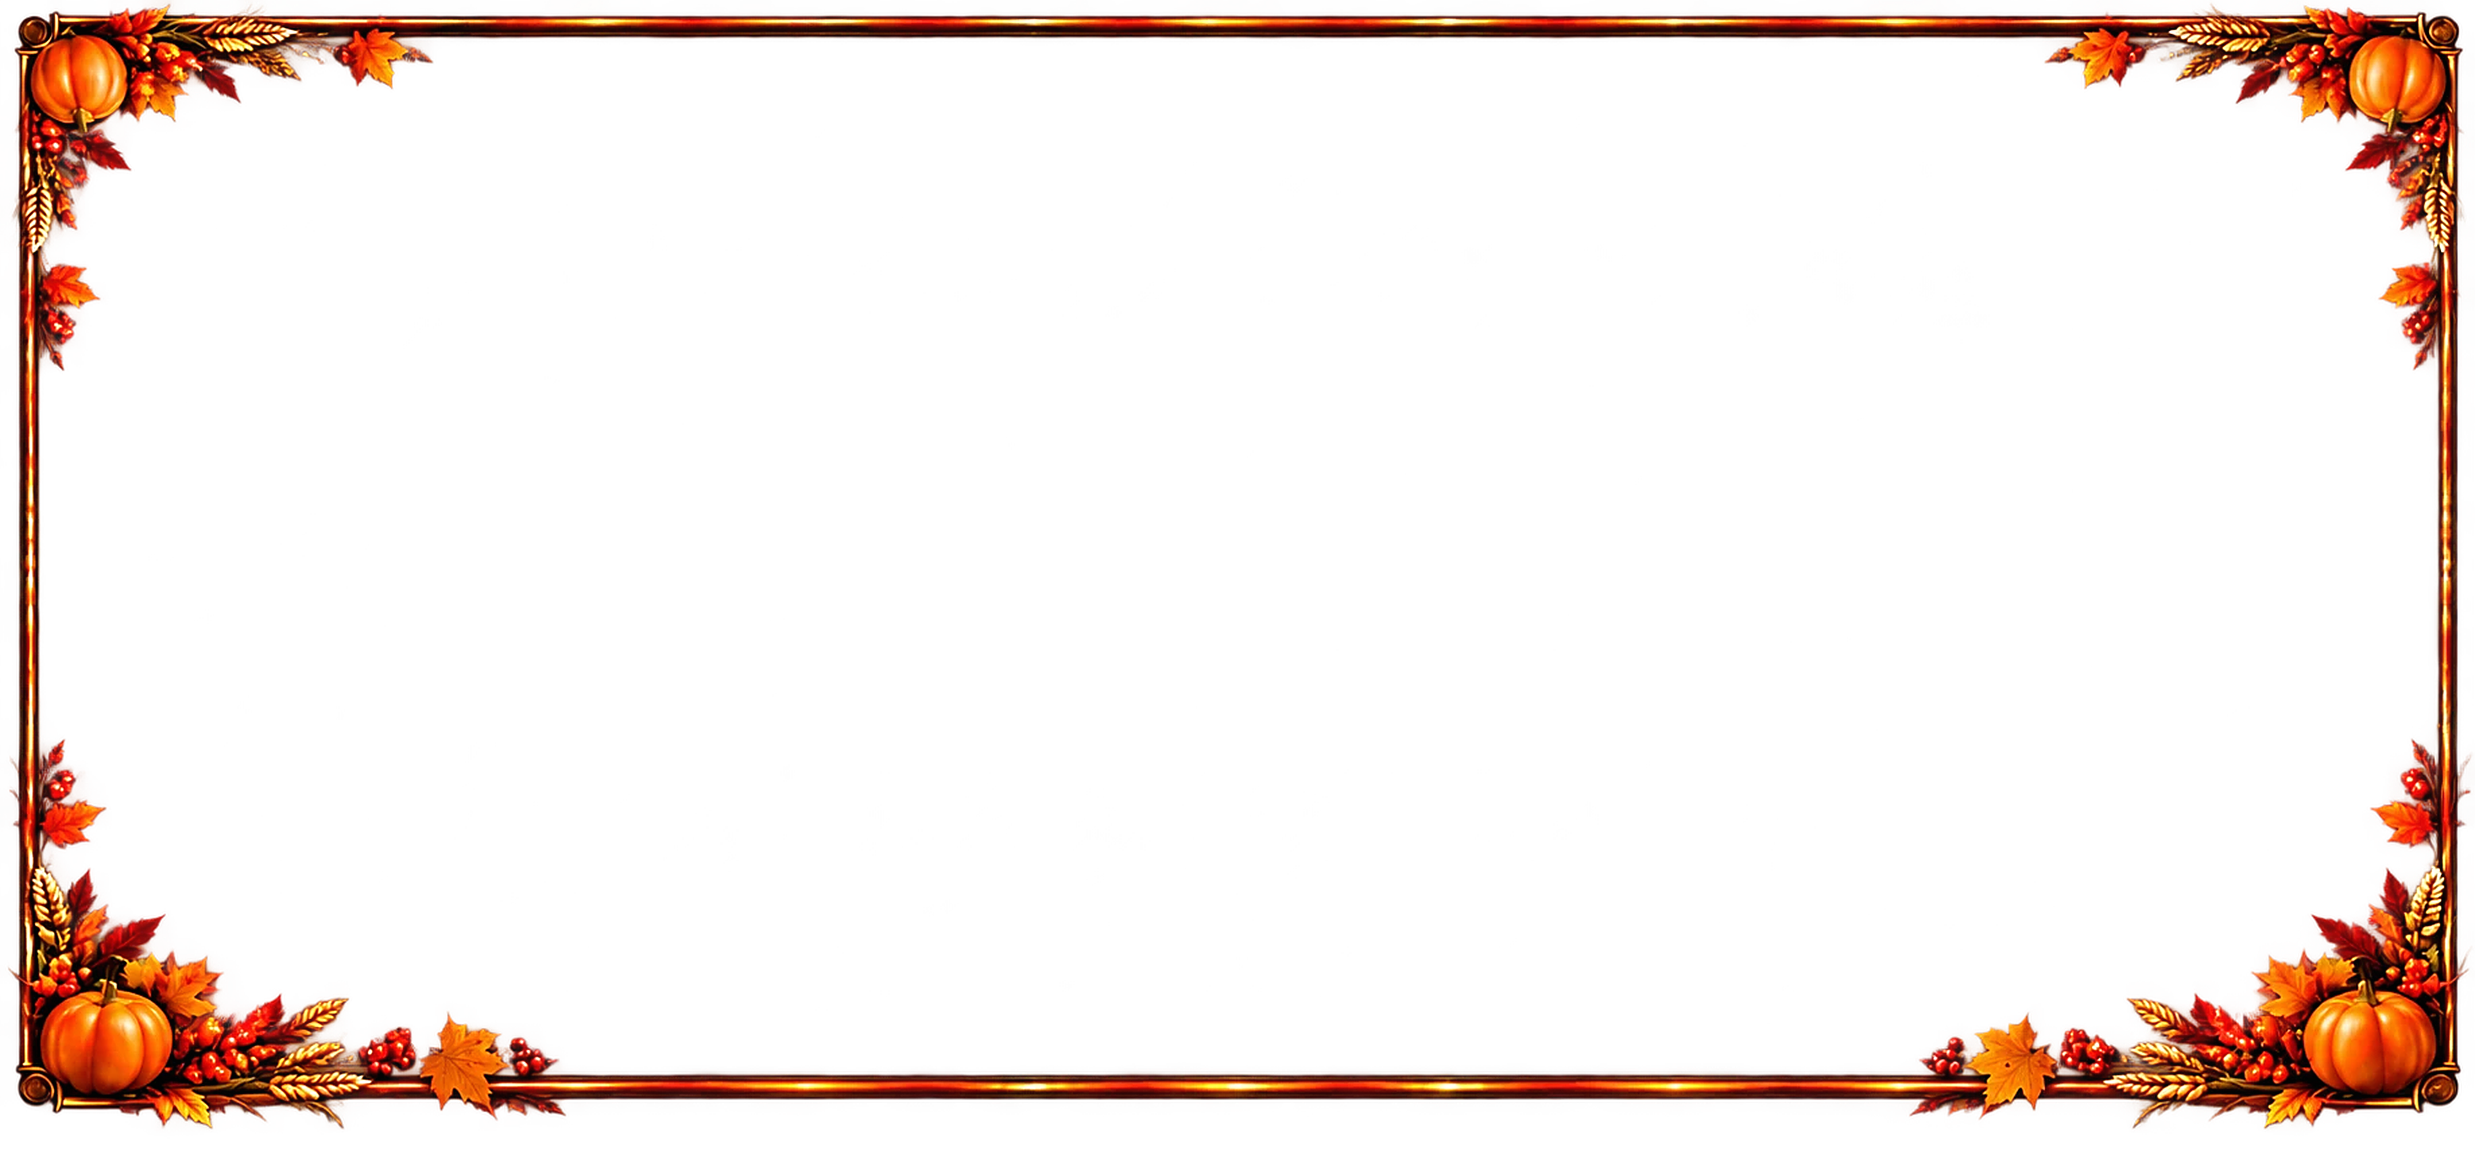
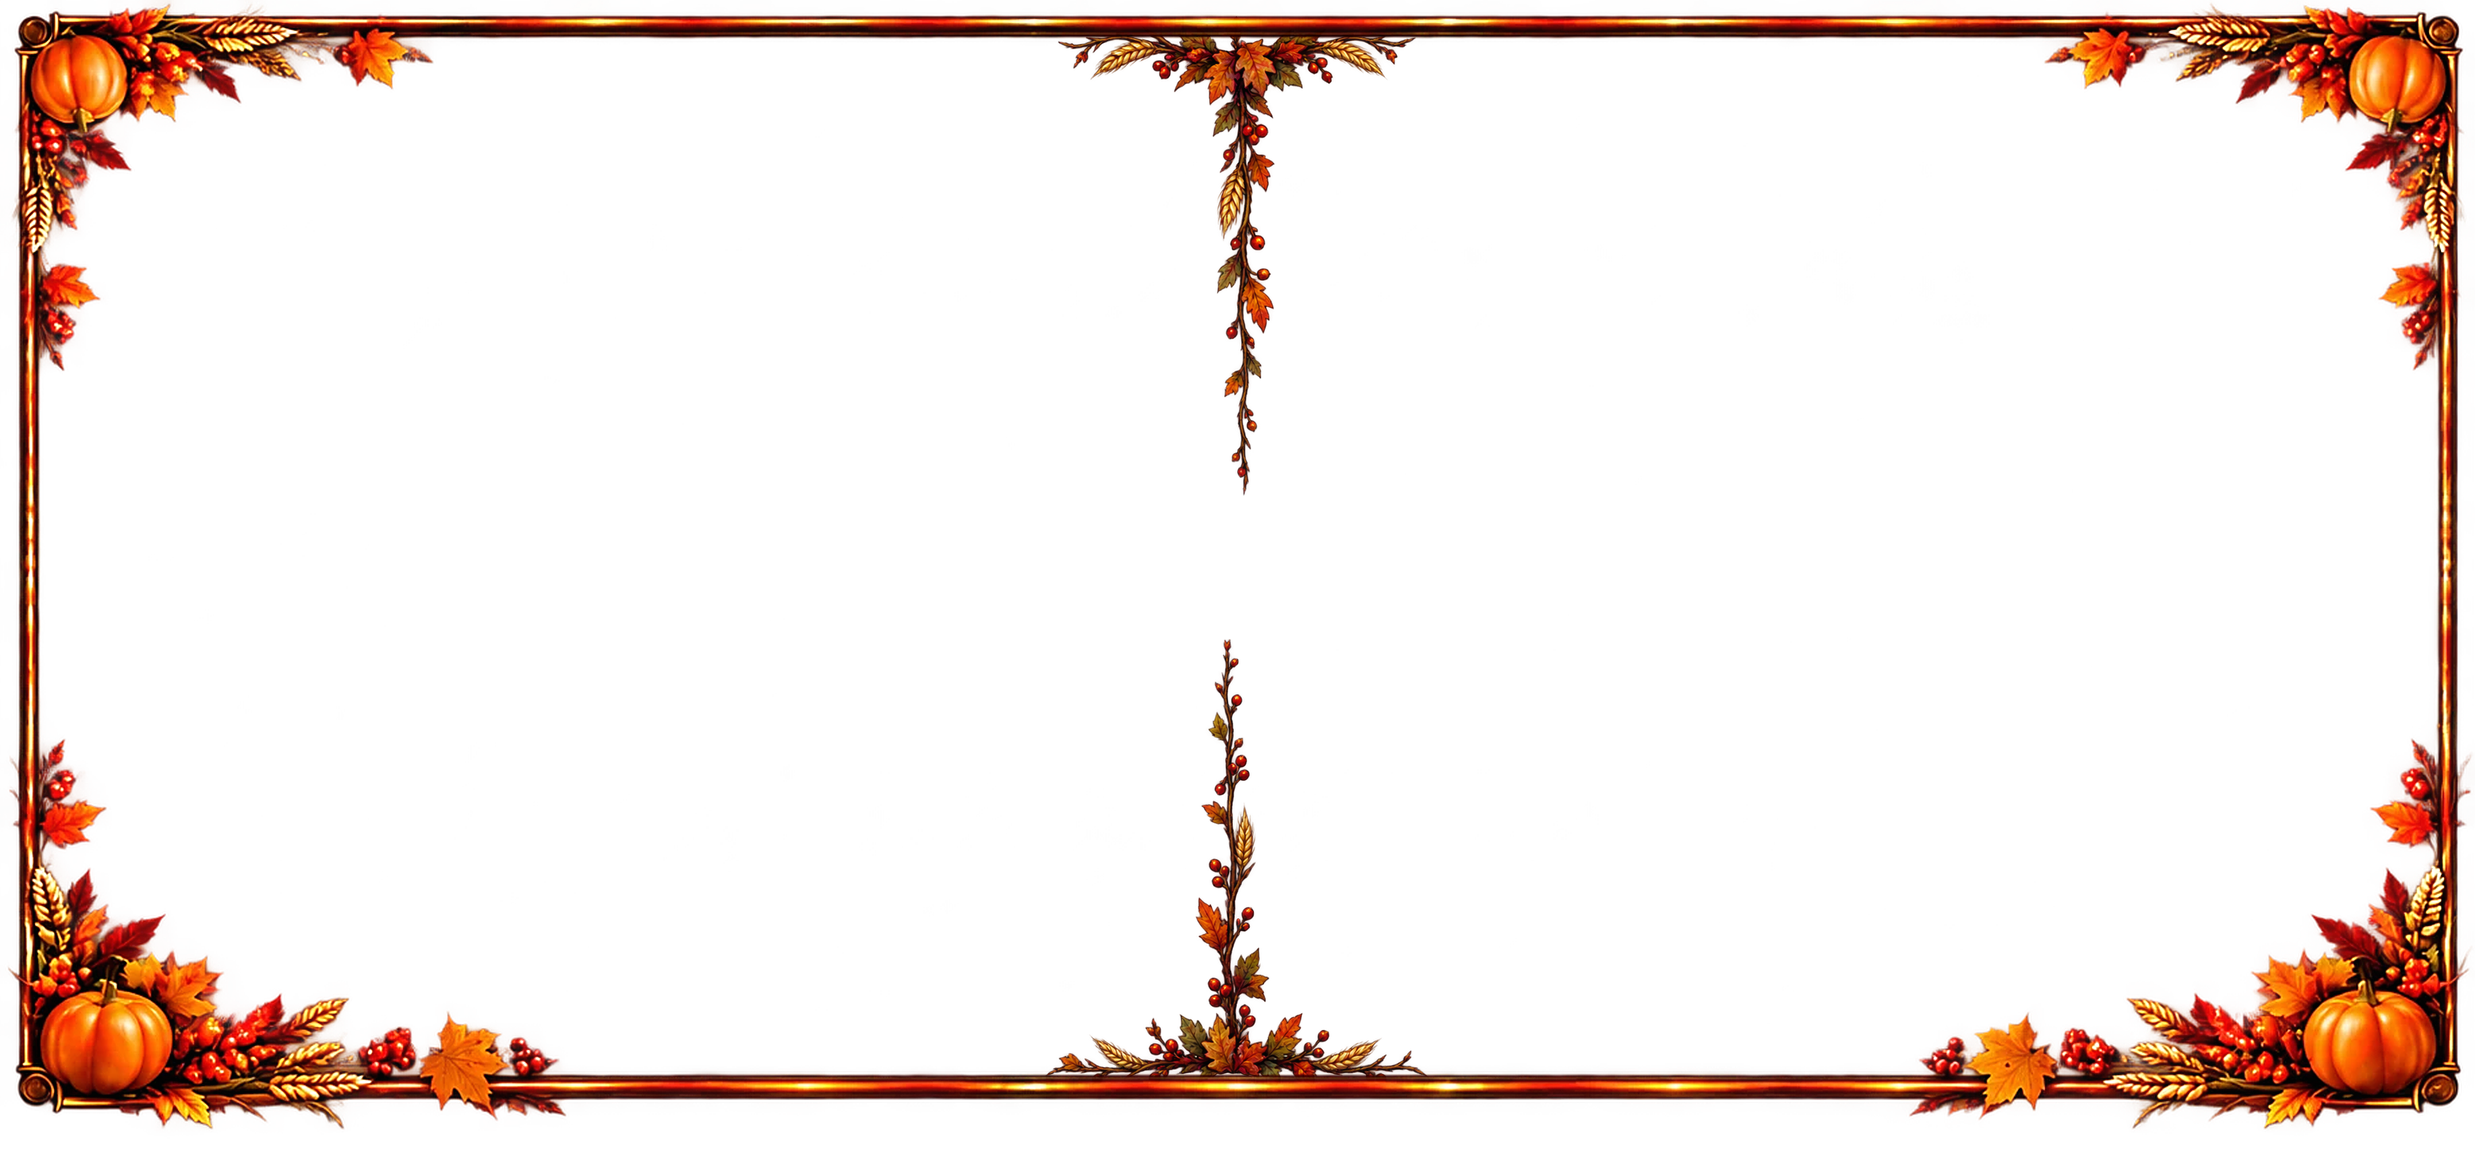
compose-set: Bud's middle vines on the frame; trial layouts behind COMPOSE_LAYOUT
The frame step lays Bud's pair of vines (art/surprise/set-frame-middle.png)
under the rails over the black middle, the hanging one 480px long. Trial
layouts for Alyx to compare (narrow black, full with a middle rail, full
with vines only) sit behind COMPOSE_LAYOUT; the default build is unchanged.
No live print is rebuilt.

Claude-Session: https://claude.ai/code/session_01VPDKP5EJZDEyqUkUM3kqQb

Changed region(s): [[0.4356, 0.0312, 0.5911, 0.4052], [0.4044, 0.7169, 0.5911, 0.9351], [0.4667, 0.5922, 0.5289, 0.7169]]

diff --git a/tools/surprise/compose-set.py b/tools/surprise/compose-set.py
@@ -61,14 +61,44 @@ if sys.argv[1] == 'frame':
     out = Image.fromarray(np.dstack([rgb, al]).astype(np.uint8), 'RGBA')
     sharp = out.convert('RGB').filter(ImageFilter.UnsharpMask(radius=1.6, percent=70, threshold=2))
     fr = Image.merge('RGBA', (*sharp.split(), out.split()[3]))
-    # THE MIDDLE ORNAMENTS (Alyx, 28 Sep 2026): a harvest cluster hanging
-    # down from the top rail and a companion rising from the bottom rail,
-    # over the black middle, painted by Bud (art/surprise/set-frame-middle.*,
-    # on hot pink). Laid on once they exist.
-    import glob
+    # THE MIDDLE ORNAMENTS (Alyx, 28 Sep 2026): "coming down in a triangle
+    # almost like a stalactite" from the top rail and "coming up" from the
+    # bottom one, over the black middle; then "thinner ... a little bit more
+    # elegant and a little bit more long". Bud painted the pair side by side
+    # on one transparent canvas (art/surprise/set-frame-middle.png): the
+    # hanging one on the left, the rising one on the right. Each is cut out
+    # by its own shape, both scaled by the same amount (the hanging one to
+    # ORN_LEN px long) in premultiplied colour, centred on the print, and
+    # slid UNDER the frame: the hanging one's top at the top rail's upper
+    # edge, the rising one's base 10 px above the bottom rail's lower edge (its
+    # branch then sits on the rail as the top one's hangs under it), so the
+    # rail covers where each joins it.
+    import glob, cv2
     mids = sorted(glob.glob('art/surprise/set-frame-middle.*'))
     if mids:
-        print('middle ornaments: not placed yet -', mids[0])
+        ORN_LEN = int(os.environ.get('COMPOSE_ORN_LEN', 480))
+        m = np.asarray(Image.open(mids[0]).convert('RGBA')).astype(float)
+        n, lab, st, _ = cv2.connectedComponentsWithStats((m[..., 3] > 8).astype(np.uint8), 8)
+        pieces = sorted((i for i in range(1, n) if st[i][4] > 2000), key=lambda i: st[i][0])
+        under = Image.new('RGBA', (W, H), (0, 0, 0, 0))
+        k = ORN_LEN / st[pieces[0]][3]
+        for i, where in zip(pieces, ('top', 'bottom')):
+            x, y, w, h = st[i][:4]
+            own = cv2.dilate((lab == i).astype(np.uint8), np.ones((9, 9), np.uint8)) > 0
+            c = m[y:y + h, x:x + w].copy()
+            c[..., 3] *= own[y:y + h, x:x + w]
+            ow, oh = round(w * k), round(h * k)
+            pm = np.dstack([c[..., :3] * c[..., 3:] / 255, c[..., 3]])
+            chans = [np.asarray(Image.fromarray(pm[..., k].astype(np.float32), 'F').resize((ow, oh), Image.LANCZOS))
+                     for k in range(4)]
+            al2 = np.clip(chans[3], 0, 255)
+            rgb2 = np.dstack([np.clip(ch * 255 / np.maximum(al2, 1), 0, 255) for ch in chans[:3]])
+            piece = Image.fromarray(np.dstack([rgb2, al2]).astype(np.uint8), 'RGBA')
+            px = (W - ow) // 2
+            py = 16 if where == 'top' else 1088 - oh
+            under.alpha_composite(piece, (px, py))
+            print(f'middle ornament ({where}): {ow} x {oh} at {px},{py}')
+        fr = Image.alpha_composite(under, fr)
     fr.save(FRAME_OUT, optimize=True)
     print(f'{FRAME_OUT}: {100 * (al > 127).mean():.1f}% of the print is frame')
     sys.exit()
@@ -143,6 +173,24 @@ FONT = '/usr/share/fonts/truetype/dejavu/DejaVuSerif-Bold.ttf'
 ROOM = {('left', 'top'): (190, MID0 - 20), ('left', 'bottom'): (250, MID0 - 20),
         ('right', 'top'): (MID1 + 20, 2290), ('right', 'bottom'): (MID1 + 20, 2230)}
 TOP_BAND, BOTTOM_BAND = (100, 215), (780, 1000)
+# NO BLACK MIDDLE (Alyx, 28 Sep 2026, a trial: "just have the image extend
+# ... forgo the black fade altogether and just frame the whole thing").
+# COMPOSE_LAYOUT=rail: each scene fills its half, meeting at the centre under
+# a rail cut from the frame's own top rail, the vines over it; butt: the
+# same with no rail, the vines alone over the join. fade (the default) is the
+# black middle.
+LAYOUT = os.environ.get('COMPOSE_LAYOUT', 'fade')
+# narrow: the black middle kept, but only COMPOSE_BLACK of the width (Alyx:
+# "we're going to need some black fade, but not nearly that much ... keep
+# them separated"); each scene enlarged to fill the rest, fading into it.
+NB = float(os.environ.get('COMPOSE_BLACK', .06))
+NM0, NM1 = round(W * (.5 - NB / 2)), round(W * (.5 + NB / 2))
+if LAYOUT == 'narrow':
+    ROOM = {('left', 'top'): (190, NM0 - 30), ('left', 'bottom'): (250, NM0 - 30),
+            ('right', 'top'): (NM1 + 30, 2290), ('right', 'bottom'): (NM1 + 30, 2230)}
+elif LAYOUT != 'fade':
+    ROOM = {('left', 'top'): (190, W // 2 - 50), ('left', 'bottom'): (250, W // 2 - 50),
+            ('right', 'top'): (W // 2 + 50, 2290), ('right', 'bottom'): (W // 2 + 50, 2230)}
 def fit_size(text, x0, x1, y0, y1, biggest):
     lines = text.split('\n'); d = ImageDraw.Draw(Image.new('L', (8, 8))); size = biggest
     while size > 20:
@@ -182,10 +230,48 @@ def words(out, caps, side):
             d.text(((x0 + x1 - w) // 2, top + i * lh), l, font=f, fill=(247, 236, 210), stroke_width=sw, stroke_fill=(42, 24, 12))
     return np.asarray(im).astype(float)
 
+def cover(img, zw, zh):
+    # Enlarged evenly until it fills the place, the spare trimmed: from the
+    # sides equally, and from the top and bottom 40 : 60.
+    h, w = img.shape[:2]; k = max(zw / w, zh / h)
+    bw, bh = round(w * k), round(h * k)
+    big = np.asarray(Image.fromarray(np.clip(img, 0, 255).astype(np.uint8)).resize((bw, bh), Image.LANCZOS)).astype(float)
+    x0, y0 = (bw - zw) // 2, round((bh - zh) * .4)
+    return big[y0:y0 + zh, x0:x0 + zw]
+
+def middle_rail():
+    # A length of the frame's own top rail, turned upright.
+    strip = frame[10:44, 700:700 + (IY1 - IY0) + 20]
+    return np.rot90(strip, 3)
+
 def compose(left_img, right_img, left_caps=None, right_caps=None):
     out = np.full((H, W, 3), 255.0)
     out[IY0:IY1, IX0:IX1] = 0
     zh = IY1 - IY0
+    if LAYOUT == 'narrow':
+        nf, nc = NB * W * .35, NB * W * 1.1               # the fade: at mid-height, at the top and bottom rows
+        for img, x0, x1, inner in ((left_img, IX0, NM0, 'right'), (right_img, NM1, IX1, 'left')):
+            im = cover(img, x1 - x0, zh); w = x1 - x0
+            xs = np.arange(x0, x1)
+            ys = (np.arange(zh) + 0.5) / zh * 2 - 1
+            reach = nf + (nc - nf) * np.abs(ys) ** 2.2
+            dist = (x1 - xs[None, :]) if inner == 'right' else (xs[None, :] - x0)
+            out[IY0:IY1, x0:x1] = im * ss(dist / reach[:, None])[:, :, None]
+        out = words(out, left_caps, 'left'); out = words(out, right_caps, 'right')
+        a = frame[..., 3:] / 255
+        out = frame[..., :3] * a + out * (1 - a)
+        return Image.fromarray(np.clip(out, 0, 255).astype(np.uint8))
+    if LAYOUT != 'fade':
+        out[IY0:IY1, IX0:W // 2] = cover(left_img, W // 2 - IX0, zh)
+        out[IY0:IY1, W // 2:IX1] = cover(right_img, IX1 - W // 2, zh)
+        out = words(out, left_caps, 'left'); out = words(out, right_caps, 'right')
+        if LAYOUT == 'rail':
+            r = middle_rail(); rh, rw = r.shape[:2]; x, y = W // 2 - rw // 2, IY0 - 10
+            a = r[..., 3:] / 255
+            out[y:y + rh, x:x + rw] = r[..., :3] * a + out[y:y + rh, x:x + rw] * (1 - a)
+        a = frame[..., 3:] / 255
+        out = frame[..., :3] * a + out * (1 - a)
+        return Image.fromarray(np.clip(out, 0, 255).astype(np.uint8))
     for img, x0, x1, inner in ((left_img, IX0, MID0, 'right'), (right_img, MID1, IX1, 'left')):
         im = fit(img, x1 - x0, zh); h, w = im.shape[:2]
         y = IY0 + (zh - h) // 2
